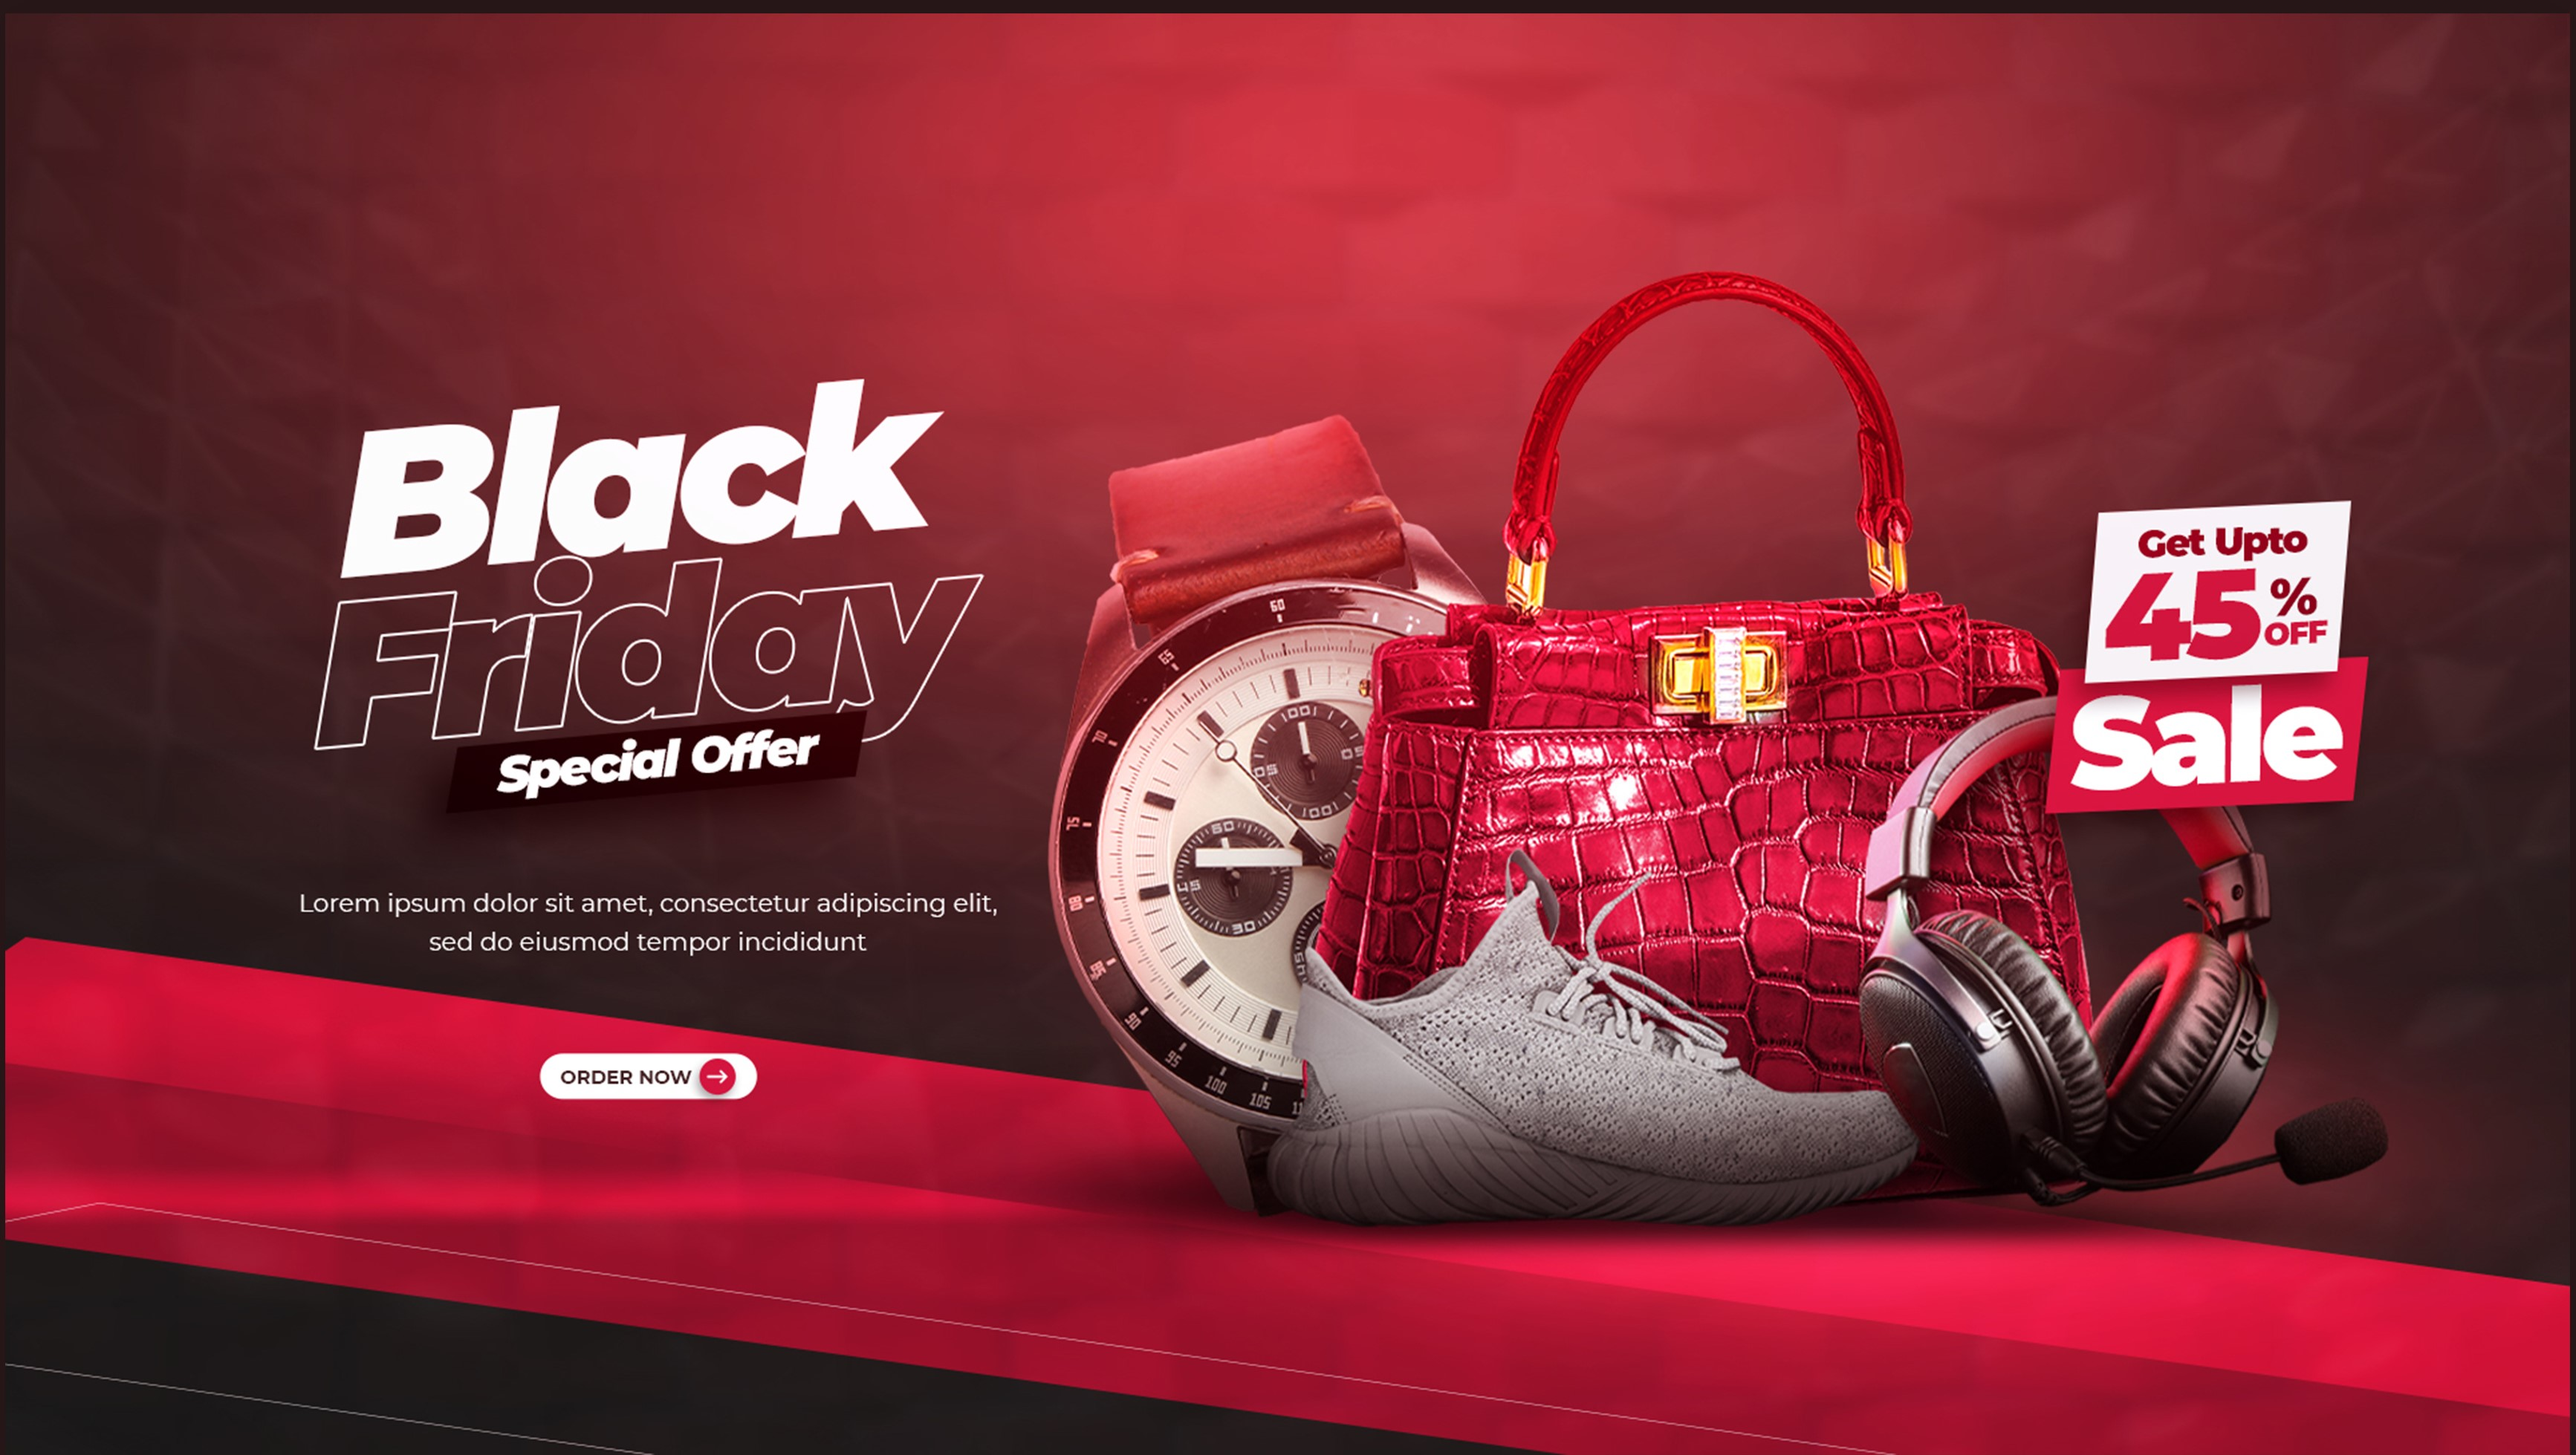
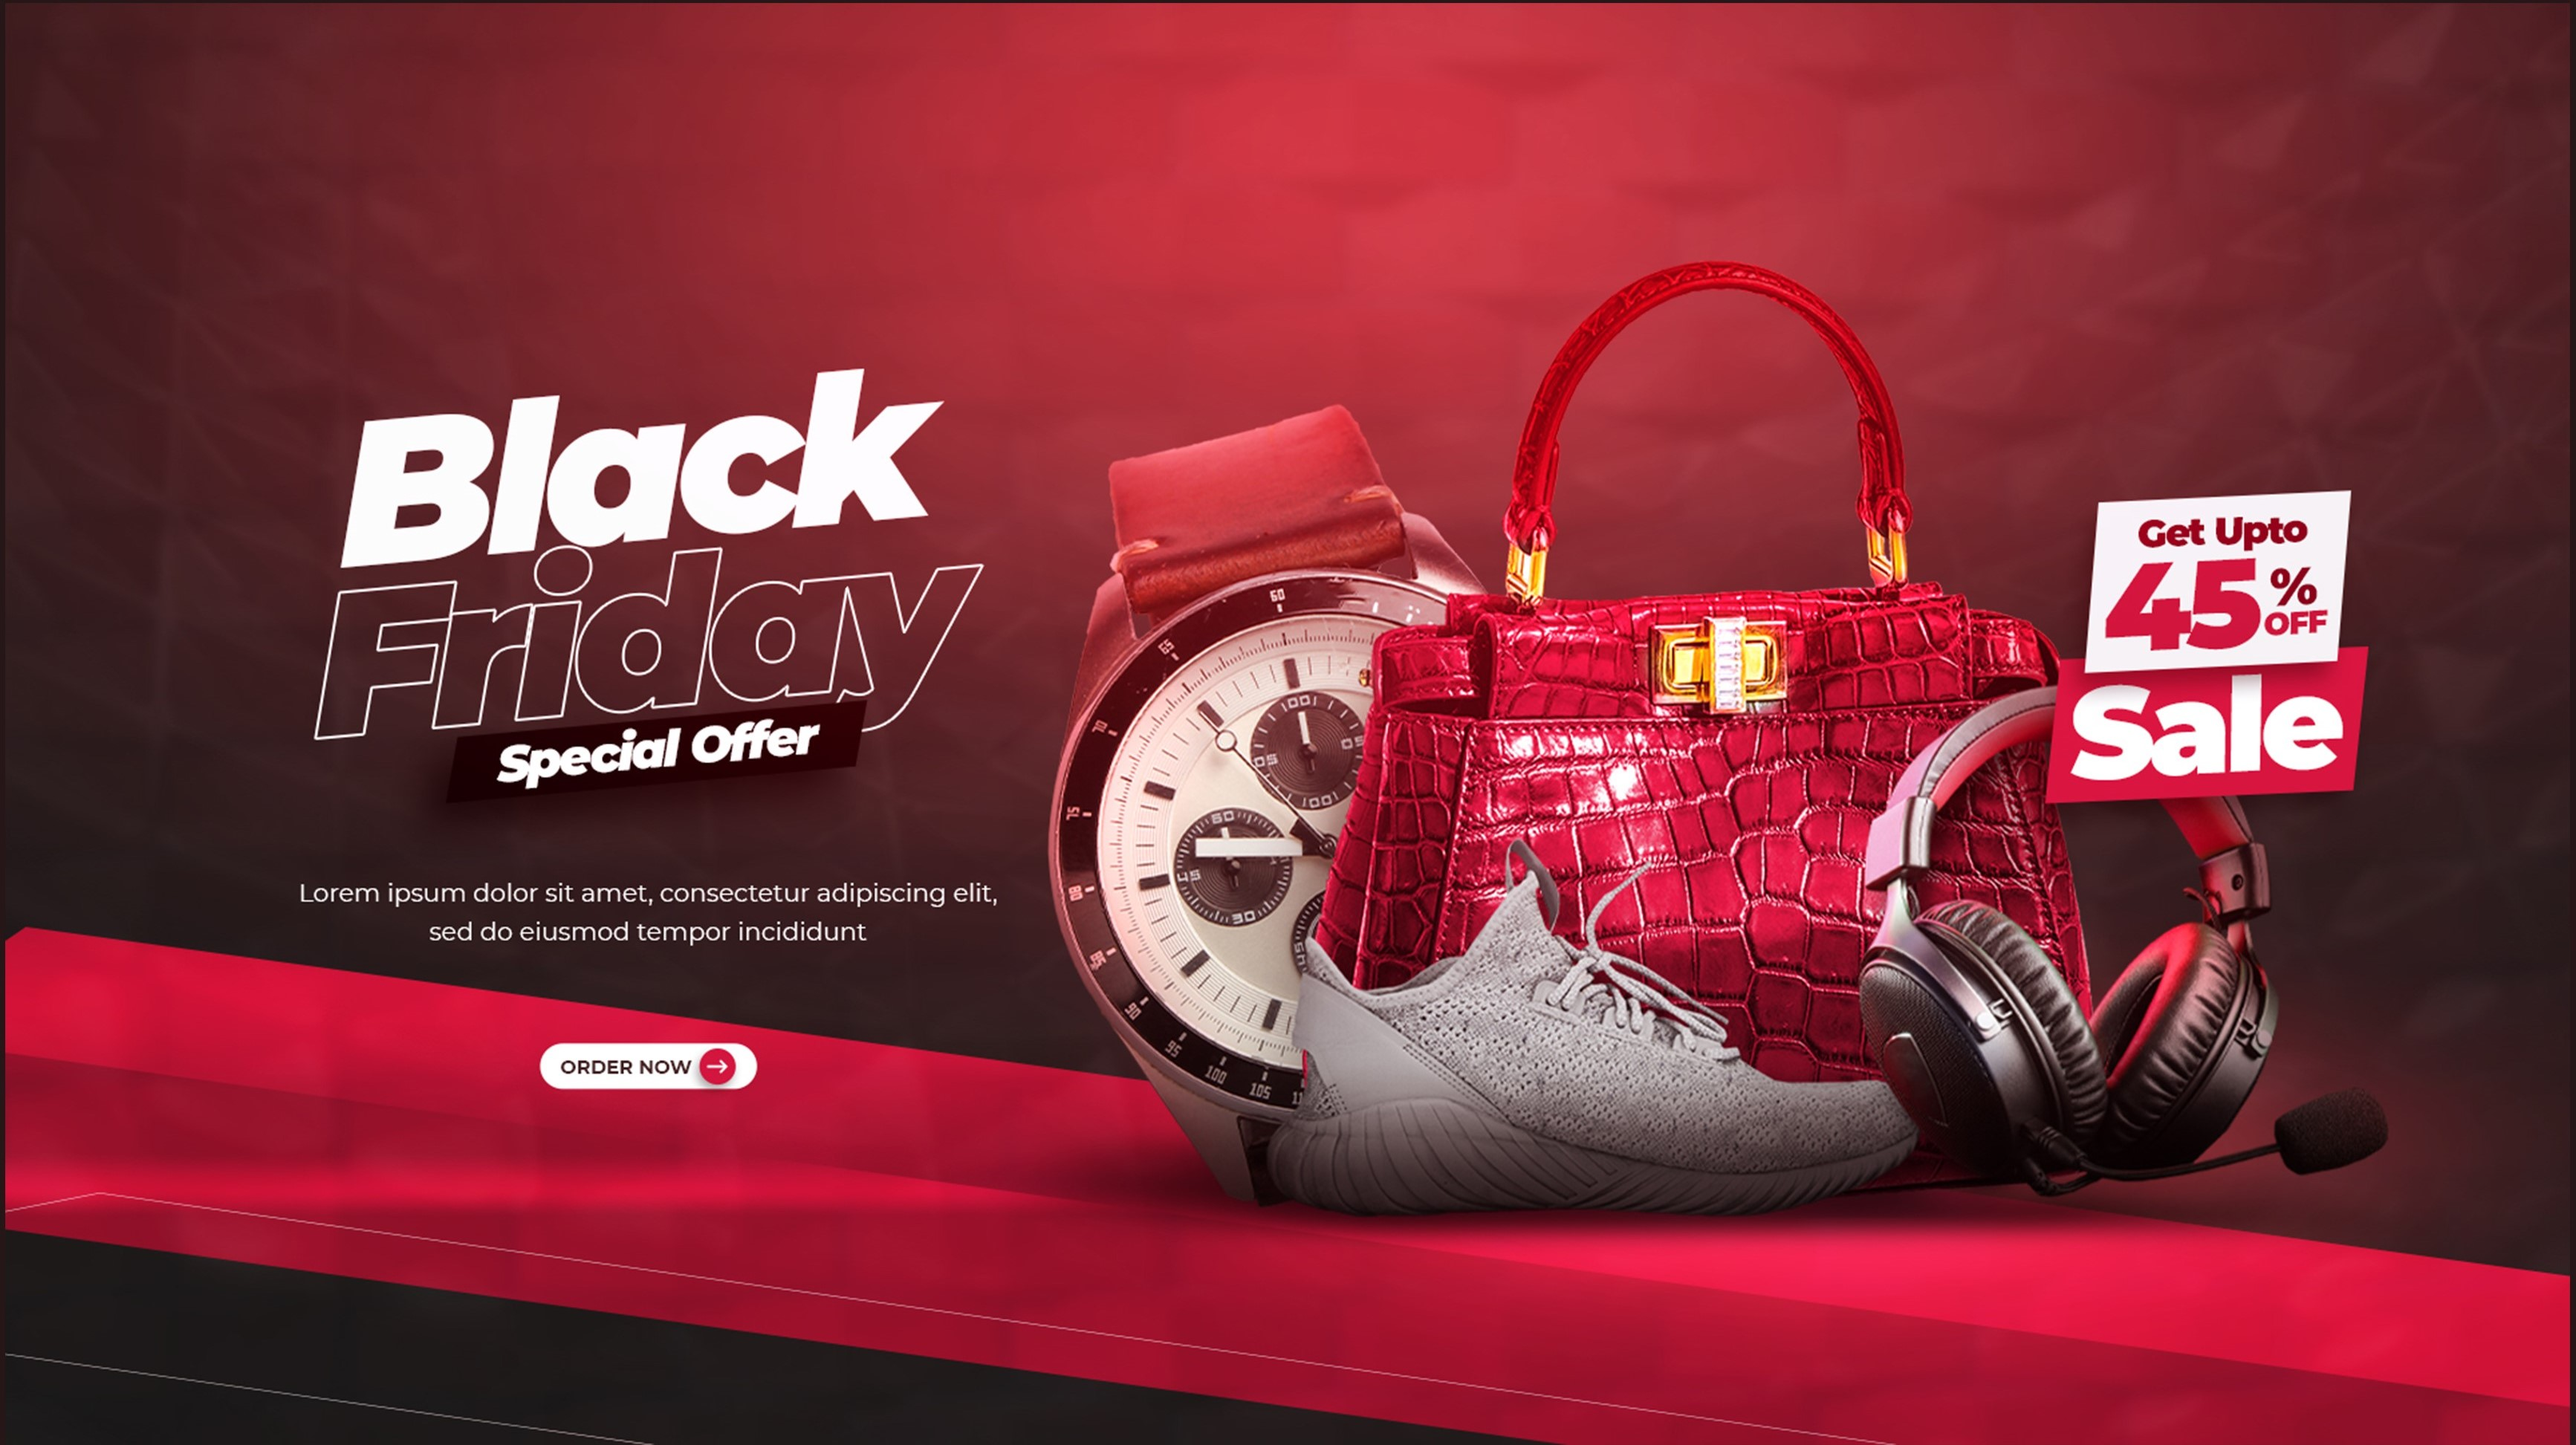
add homecatslider

diff --git a/src/components/HomeCatSlider/index.jsx b/src/components/HomeCatSlider/index.jsx
@@ -1,29 +1,143 @@
 import React from 'react'
 import { Swiper, SwiperSlide } from 'swiper/react';
 import 'swiper/css';
-import 'swiper/css/pagination';
+import 'swiper/css/navigation'
+import { Link } from 'react-router-dom';
 
 import { Navigation } from 'swiper/modules';
 
 const HomeCatSlider = () => {
   return (
     <div className="homeCatSlider">
-      <div className="container">
+      <div className="container py-2">
         <Swiper
         slidesPerView={7}
-        spaceBetween={30}
+        spaceBetween={10}
+        navigation={true}
         modules={[Navigation]}
         className="mySwiper"
       >
-        <SwiperSlide>Slide 1</SwiperSlide>
-        <SwiperSlide>Slide 2</SwiperSlide>
-        <SwiperSlide>Slide 3</SwiperSlide>
-        <SwiperSlide>Slide 4</SwiperSlide>
-        <SwiperSlide>Slide 5</SwiperSlide>
-        <SwiperSlide>Slide 6</SwiperSlide>
-        <SwiperSlide>Slide 7</SwiperSlide>
-        <SwiperSlide>Slide 8</SwiperSlide>
-        <SwiperSlide>Slide 9</SwiperSlide>
+        <SwiperSlide>
+        <Link to="/">
+          <div className="item py-7 px-3 bg-white rounded-sm text-center flex items-center justify-center flex-col
+          ">
+            <img src="ipad.jpg" alt="" className="w-[90px] transition-all" />
+            <h3 className="text-[16px] font-[500] mt-3">Smart Tablet</h3>
+          </div>
+          </Link>
+        </SwiperSlide>
+
+<SwiperSlide>
+        <Link to="/">
+          <div className="item py-7 px-3 bg-white rounded-sm text-center flex items-center justify-center flex-col
+          ">
+            <img src="ipad.jpg" alt="" className="w-[90px] transition-all" />
+            <h3 className="text-[16px] font-[500] mt-3">Smart Tablet</h3>
+          </div>
+          </Link>
+        </SwiperSlide>
+
+        <SwiperSlide>
+        <Link to="/">
+          <div className="item py-7 px-3 bg-white rounded-sm text-center flex items-center justify-center flex-col
+          ">
+            <img src="ipad.jpg" alt="" className="w-[90px] transition-all" />
+            <h3 className="text-[16px] font-[500] mt-3">Smart Tablet</h3>
+          </div>
+          </Link>
+        </SwiperSlide>
+
+        <SwiperSlide>
+        <Link to="/">
+          <div className="item py-7 px-3 bg-white rounded-sm text-center flex items-center justify-center flex-col
+          ">
+            <img src="ipad.jpg" alt="" className="w-[90px] transition-all" />
+            <h3 className="text-[16px] font-[500] mt-3">Smart Tablet</h3>
+          </div>
+          </Link>
+        </SwiperSlide>
+
+        <SwiperSlide>
+        <Link to="/">
+          <div className="item py-7 px-3 bg-white rounded-sm text-center flex items-center justify-center flex-col
+          ">
+            <img src="ipad.jpg" alt="" className="w-[90px] transition-all" />
+            <h3 className="text-[16px] font-[500] mt-3">Smart Tablet</h3>
+          </div>
+          </Link>
+        </SwiperSlide>
+
+        <SwiperSlide>
+        <Link to="/">
+          <div className="item py-7 px-3 bg-white rounded-sm text-center flex items-center justify-center flex-col
+          ">
+            <img src="ipad.jpg" alt="" className="w-[90px] transition-all" />
+            <h3 className="text-[16px] font-[500] mt-3">Smart Tablet</h3>
+          </div>
+          </Link>
+        </SwiperSlide>
+
+        <SwiperSlide>
+        <Link to="/">
+          <div className="item py-7 px-3 bg-white rounded-sm text-center flex items-center justify-center flex-col
+          ">
+            <img src="ipad.jpg" alt="" className="w-[90px] transition-all" />
+            <h3 className="text-[16px] font-[500] mt-3">Smart Tablet</h3>
+          </div>
+          </Link>
+        </SwiperSlide>
+
+        <SwiperSlide>
+        <Link to="/">
+          <div className="item py-7 px-3 bg-white rounded-sm text-center flex items-center justify-center flex-col
+          ">
+            <img src="ipad.jpg" alt="" className="w-[90px] transition-all" />
+            <h3 className="text-[16px] font-[500] mt-3">Smart Tablet</h3>
+          </div>
+          </Link>
+        </SwiperSlide>
+
+        <SwiperSlide>
+        <Link to="/">
+          <div className="item py-7 px-3 bg-white rounded-sm text-center flex items-center justify-center flex-col
+          ">
+            <img src="ipad.jpg" alt="" className="w-[90px] transition-all" />
+            <h3 className="text-[16px] font-[500] mt-3">Smart Tablet</h3>
+          </div>
+          </Link>
+        </SwiperSlide>
+
+        <SwiperSlide>
+        <Link to="/">
+          <div className="item py-7 px-3 bg-white rounded-sm text-center flex items-center justify-center flex-col
+          ">
+            <img src="ipad.jpg" alt="" className="w-[90px] transition-all" />
+            <h3 className="text-[16px] font-[500] mt-3">Smart Tablet</h3>
+          </div>
+          </Link>
+        </SwiperSlide>
+
+        <SwiperSlide>
+        <Link to="/">
+          <div className="item py-7 px-3 bg-white rounded-sm text-center flex items-center justify-center flex-col
+          ">
+            <img src="ipad.jpg" alt="" className="w-[90px] transition-all" />
+            <h3 className="text-[16px] font-[500] mt-3">Smart Tablet</h3>
+          </div>
+          </Link>
+        </SwiperSlide>
+
+        <SwiperSlide>
+        <Link to="/">
+          <div className="item py-7 px-3 bg-white rounded-sm text-center flex items-center justify-center flex-col
+          ">
+            <img src="ipad.jpg" alt="" className="w-[90px] transition-all" />
+            <h3 className="text-[16px] font-[500] mt-3">Smart Tablet</h3>
+          </div>
+          </Link>
+        </SwiperSlide>
+          
+        
       </Swiper>
       </div>
     </div>

diff --git a/src/index.css b/src/index.css
@@ -33,6 +33,12 @@ nav ul button:hover {background: none !important;}
   --swiper-navigation-color: #000;
   --swiper-navigation-size: 22px;
 }
+
+.homeCatSlider {
+  --swiper-navigation-color: #000;
+  --swiper-navigation-size: 22px;
+}
+
 .swiper-button-prev::after,
 .swiper-button-next ::after{
   display: flex;
@@ -44,3 +50,29 @@ nav ul button:hover {background: none !important;}
   height: 45px;
   min-width: 45px;
 }
+
+.homeCatSlider  .swiper{overflow: inherit !important;}
+
+.homeCatSlider .swiper-button-prev, .homeCatSlider .swiper-button-next{
+  width: 30px;
+  height: 30px;
+  min-width: 30px;
+}
+
+
+
+.homeCatSlider .swiper-button-prev:after,.homeCatSlider .swiper-button-next:after{
+  font-size: 16px !important;
+}
+
+.homeCatSlider .swiper-button-prev{
+  left: -20px !important;
+}
+
+.homeCatSlider .swiper-button-next{
+  right: -20px !important;
+}
+
+.homeCatSlider .item{border: 1px solid rgba(0,0,0,0.1);}
+
+.homeCatSlider .item:hover img{transform: scale(1.1);}

diff --git a/src/Pages/Home/index.jsx b/src/Pages/Home/index.jsx
@@ -7,6 +7,9 @@ const Home = () => {
     <>
       <HomeSlider/>
       <HomeCatSlider/>
+
+      <br/><br/><br/><br/><br/><br/>
+
     </>
   )
 }
